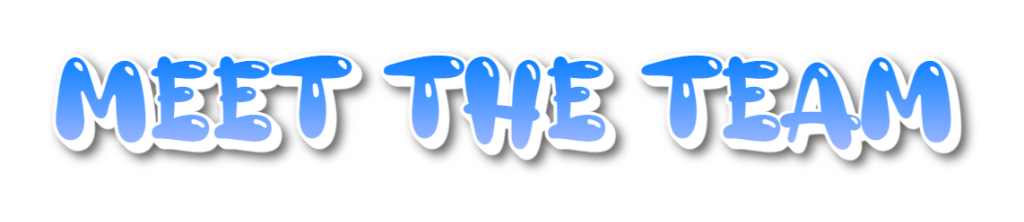
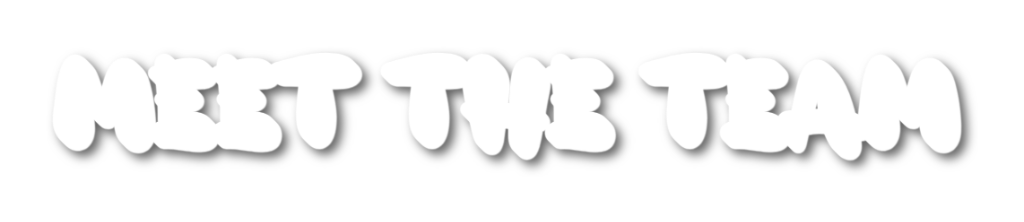
about update

Changed region(s): [[0.0312, 0.2432, 0.3438, 0.6486], [0.625, 0.2432, 0.9375, 0.6757], [0.375, 0.2432, 0.5938, 0.6757]]

diff --git a/about.html b/about.html
@@ -17,7 +17,7 @@
 	<body>
 
 		<h1 id="aboutTitle">
-			<img src="images/MeetTheTeam.png" alt="Fintastic Friends">
+			<img src="images/meettheteam.png">
 		</h1>
 
         <div class="about-box">

diff --git a/css/dark.css b/css/dark.css
@@ -47,7 +47,7 @@ body
 
 #aboutTitle img
 {
-    content: url('../images/MeetTheTeam.png');
+    content: url('../images/meettheteam.png');
     
 }
 
